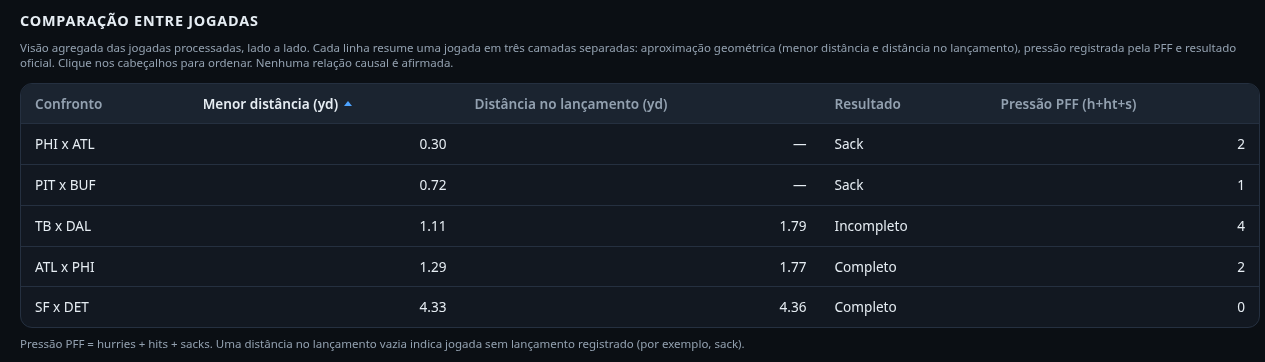
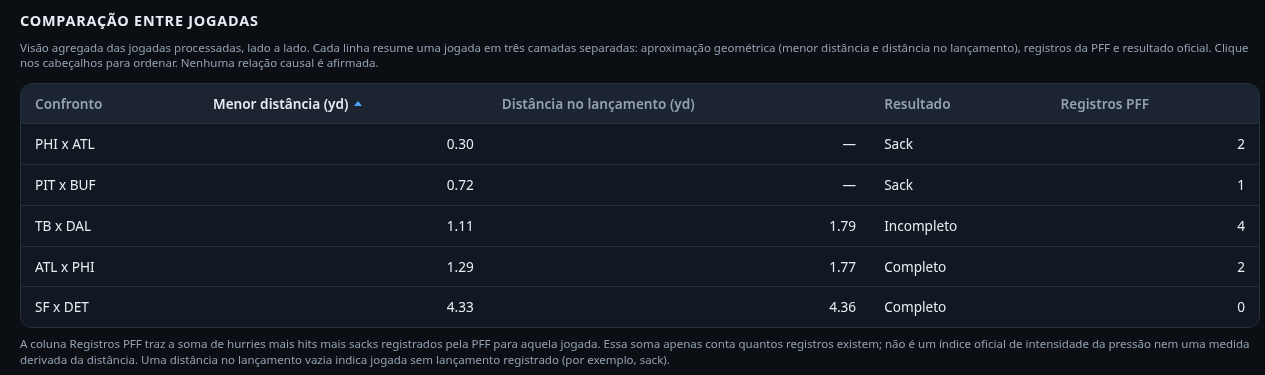
docs: renomeia coluna para Registros PFF, esclarece a soma e a cronologia da jogada, atualiza README e regenera a imagem da tabela

diff --git a/app/index.html b/app/index.html
@@ -158,7 +158,7 @@
   <!-- Comparação entre jogadas (visão agregada — Fase adicional) -->
   <section class="comparison-wrap" aria-labelledby="comparison-title">
     <h2 id="comparison-title">Comparação entre jogadas</h2>
-    <p class="note">Visão agregada das jogadas processadas, lado a lado. Cada linha resume uma jogada em três camadas separadas: aproximação geométrica (menor distância e distância no lançamento), pressão registrada pela PFF e resultado oficial. Clique nos cabeçalhos para ordenar. Nenhuma relação causal é afirmada.</p>
+    <p class="note">Visão agregada das jogadas processadas, lado a lado. Cada linha resume uma jogada em três camadas separadas: aproximação geométrica (menor distância e distância no lançamento), registros da PFF e resultado oficial. Clique nos cabeçalhos para ordenar. Nenhuma relação causal é afirmada.</p>
     <div class="comparison-table-wrap">
       <table id="comparison-table" class="comparison-table">
         <thead>
@@ -167,13 +167,13 @@
             <th data-key="minDistanceYd" data-num="1" scope="col"><button type="button" class="th-sort">Menor distância (yd)</button></th>
             <th data-key="distanceAtThrowYd" data-num="1" scope="col"><button type="button" class="th-sort">Distância no lançamento (yd)</button></th>
             <th data-key="passResultLabel" scope="col"><button type="button" class="th-sort">Resultado</button></th>
-            <th data-key="pffTotal" data-num="1" scope="col"><button type="button" class="th-sort">Pressão PFF (h+ht+s)</button></th>
+            <th data-key="pffTotal" data-num="1" scope="col"><button type="button" class="th-sort">Registros PFF</button></th>
           </tr>
         </thead>
         <tbody id="comparison-body"></tbody>
       </table>
     </div>
-    <p class="note" id="comparison-note">Pressão PFF = hurries + hits + sacks. Uma distância no lançamento vazia indica jogada sem lançamento registrado (por exemplo, sack).</p>
+    <p class="note" id="comparison-note">A coluna Registros PFF traz a soma de hurries mais hits mais sacks registrados pela PFF para aquela jogada. Essa soma apenas conta quantos registros existem; não é um índice oficial de intensidade da pressão nem uma medida derivada da distância. Uma distância no lançamento vazia indica jogada sem lançamento registrado (por exemplo, sack).</p>
   </section>
 
   <!-- Lightbox para ampliar imagens da galeria -->

diff --git a/README.md b/README.md
@@ -126,8 +126,8 @@ Cartão de resumo da jogada
 
 Comparação entre jogadas
 
-- O que mostra: a visão agregada das cinco jogadas processadas, lado a lado, em uma tabela. Cada linha traz o confronto, a menor aproximação geométrica na jogada, a aproximação no momento do lançamento, o resultado oficial do passe e a contagem de pressão registrada pela PFF (soma de hurries, hits e sacks). Diferente das imagens acima, que detalham a mesma jogada demonstrativa, esta tabela reúne as cinco jogadas.
-- Como interpretar: a tabela é ordenável; nesta captura, está ordenada pela menor distância em ordem crescente, do confronto mais apertado (PHI x ATL, 0,30 jarda) ao de pocket mais limpa (SF x DET, 4,33 jardas). As três camadas de informação seguem separadas: aproximação geométrica, pressão da PFF e resultado. Um traço na coluna de distância no lançamento indica jogada sem lançamento registrado, como nos sacks.
+- O que mostra: a visão agregada das cinco jogadas processadas, lado a lado, em uma tabela. Cada linha traz o confronto, a menor aproximação geométrica na jogada, a aproximação no momento do lançamento, o resultado oficial do passe e a coluna Registros PFF, que é a soma de hurries mais hits mais sacks registrados pela PFF (uma contagem de registros, não um índice oficial de intensidade da pressão). Diferente das imagens acima, que detalham a mesma jogada demonstrativa, esta tabela reúne as cinco jogadas.
+- Como interpretar: a tabela é ordenável; nesta captura, está ordenada pela menor distância em ordem crescente, do confronto mais apertado (PHI x ATL, 0,30 jarda) ao de pocket mais limpa (SF x DET, 4,33 jardas). As três camadas de informação seguem separadas: aproximação geométrica, registros da PFF e resultado. Um traço na coluna de distância no lançamento indica jogada sem lançamento registrado, como nos sacks.
 - Observação: as colunas não são combinadas nem correlacionadas. A proximidade dos defensores e o resultado da jogada aparecem juntos apenas para leitura, sem afirmar relação de causalidade.
 
 <div align="center">
@@ -142,6 +142,7 @@ Valores extraídos diretamente do JSON processado da jogada 2021090900 / 97 (TB 
 
 - Snap no frame 6 e lançamento no frame 40.
 - Aproximação geométrica no snap (frame 6): 5.78 jardas.
+- Frame 38: 2.31 jardas, com evento de pass forward detectado automaticamente (`autoevent_passforward`). É o frame usado na captura Full field da galeria.
 - Aproximação geométrica no lançamento (frame 40): 1.79 jarda.
 - Menor aproximação observada na jogada: 1.11 jarda, no frame 43, que ocorre após o lançamento.
 - Pressão registrada pela PFF: 4 hurries, 0 hits, 0 sacks.
@@ -275,7 +276,7 @@ Eventos e estatísticas
 Comparação entre jogadas
 
 - Tabela agregada que reúne as cinco jogadas processadas em uma única visão, lado a lado.
-- Cada linha traz o confronto, a menor aproximação geométrica na jogada, a aproximação no lançamento, o resultado do passe e a contagem de pressão registrada pela PFF.
+- Cada linha traz o confronto, a menor aproximação geométrica na jogada, a aproximação no lançamento, o resultado do passe e a coluna Registros PFF (soma de hurries, hits e sacks; contagem de registros, não índice de intensidade).
 - Ordenável por qualquer coluna, com ordem padrão pela menor distância. As três camadas de informação permanecem separadas, sem afirmar relação de causalidade.
 
 ## Metodologia e integridade dos dados
@@ -321,7 +322,7 @@ Executar a interface localmente, servindo a partir da raiz do repositório:
 python3 -m http.server 8000
 ```
 
-Depois, abra `http://localhost:8000/app/index.html` no navegador. Servir a partir da raiz garante que a galeria de visualizações complementares (em `docs/images/`) carregue corretamente, com os mesmos caminhos relativos usados no GitHub Pages. A aplicação já inclui o JSON de demonstração da jogada, então funciona sem processamento adicional.
+Depois, abra `http://localhost:8000/app/index.html` no navegador. Servir a partir da raiz garante que a galeria de visualizações complementares (em `docs/images/`) carregue corretamente, com os mesmos caminhos relativos usados no GitHub Pages. A aplicação já inclui os JSONs de demonstração das cinco jogadas, então funciona sem processamento adicional.
 
 Regenerar os dados de uma jogada (opcional, requer o dataset em uma pasta irmã):
 
@@ -349,13 +350,26 @@ Testes unitários em Python (pipeline de dados). Validam o pré-processamento, i
 python3 -m unittest discover -s tests
 ```
 
-Verificação funcional da interface (as cinco jogadas no navegador). Os testes Python cobrem os dados, mas não exercitam a troca entre jogadas na interface. Para isso, o script `tests/verify_plays_browser.sh` carrega cada uma das cinco jogadas pelo seletor, em um navegador headless, e confere: o status reflete a jogada carregada; o painel de resultado mostra o rótulo correto (inclusive "Sack" nas jogadas sem lançamento); a aproximação geométrica aparece em jardas; os controles ficam habilitados; o marcador de snap está presente; os sacks não têm marcador de lançamento; e não há erros de página no console durante as trocas.
+Verificação funcional da interface (as cinco jogadas no navegador). Os testes Python cobrem os dados, mas não exercitam a interface. Para isso, o script `tests/verify_plays_browser.sh` carrega cada uma das cinco jogadas pelo seletor, em um navegador headless, e confere comportamento observável, não apenas a existência de elementos:
+
+- o status reflete a jogada carregada;
+- o painel de resultado mostra o rótulo correto, inclusive "Sack" nas jogadas sem lançamento;
+- a aproximação geométrica aparece em jardas;
+- os controles (play/slider) ficam habilitados;
+- o marcador de snap está presente na timeline e os sacks não têm marcador de lançamento;
+- o gráfico de distância é renderizado com uma curva que muda entre jogadas, e o rótulo de lançamento aparece só nas jogadas com passe;
+- ao clicar em Play a reprodução avança de fato os frames e o botão passa a Pause; ao pausar, o avanço para;
+- alternar entre Full field e Pocket focus preserva o frame atual;
+- ao chegar ao último frame, um novo Play reinicia a reprodução;
+- não há erros de página no console durante essas operações.
+
+Os critérios usam esperas e comparações relativas (o índice avançou, ou ficou estável), sem depender de um tempo exato de máquina.
 
 ```bash
 tests/verify_plays_browser.sh
 ```
 
-Requer `agent-browser` (Chromium headless) e `python3`. A última execução registrou 31 verificações aprovadas, 0 falhas, cobrindo as cinco jogadas — incluindo os dois sacks sem lançamento.
+Requer `agent-browser` (Chromium headless) e `python3`; se o `agent-browser` não estiver disponível, o script informa a limitação e não declara aprovação. A última execução local registrou 67 verificações aprovadas, 0 falhas, cobrindo as cinco jogadas — incluindo os dois sacks sem lançamento.
 
 ## Desenvolvimento orientado por especificações com Kiro
 
@@ -373,4 +387,4 @@ A demonstração está hospedada no GitHub Pages. O repositório é versionado c
 
 ## Licença e créditos
 
-Os dados de rastreamento e de scouting pertencem à NFL e à Pro Football Focus e estão sujeitos aos termos do NFL Big Data Bowl. Este repositório contém apenas o código da aplicação e um JSON de demonstração derivado de uma jogada.
+Os dados de rastreamento e de scouting pertencem à NFL e à Pro Football Focus e estão sujeitos aos termos do NFL Big Data Bowl. Este repositório contém apenas o código da aplicação e os JSONs de demonstração derivados de cinco jogadas.
